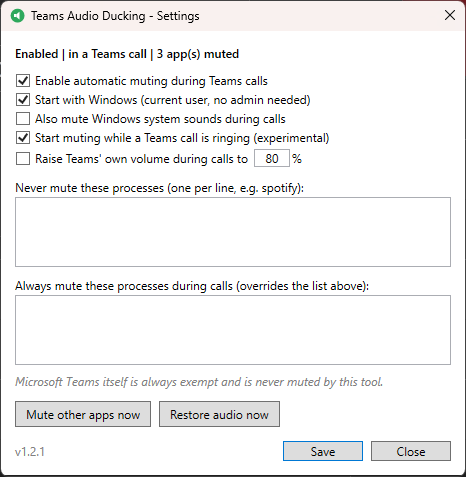
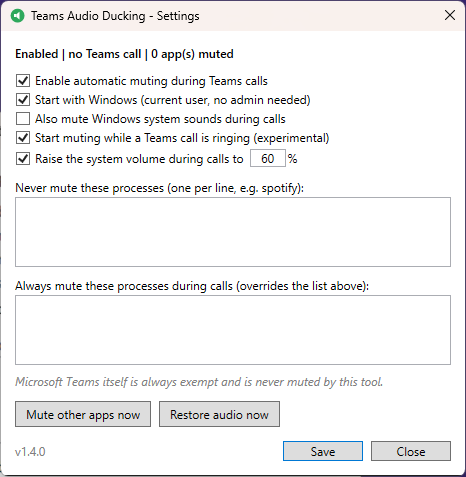
v1.4.1: fix the call volume never being raised (COM apartment mismatch)
1.4.0 looked right and did nothing on a real call. The log showed the reason on
every attempt:

    Could not raise the system volume on 'VG27A ...': Specified cast is not valid.

The MMDevice objects are created on the WPF UI thread, in OnStartup -> Start ->
RefreshDevicesLocked. DuckAll runs on the call detector's background thread, and
COM will not marshal an MMDevice across apartments: reaching the endpoint volume
through one fails with E_NOINTERFACE on IMMDevice itself. Per-app session volume
tolerates the crossing, which is why the muting worked and only the volume did
not.

Endpoint volume is now obtained through WithEndpointVolume, which resolves the
device by ID with a fresh enumerator on the calling thread and disposes both, so
nothing apartment-bound is ever reused. This also removes the tracked/untracked
device branch in the restore path.

Verified with the harness driving the real ducker under the app's threading
model (started on an STA thread, ducked from a background thread): it reproduces
the failure before the change, and after it the device goes 26% -> 60% -> 26%
with other devices untouched. Same result ducking on the STA thread (the Mute
now button), and adjusting the volume mid-call still leaves the level alone.

The settings screenshot is refreshed for the 1.4.0 wording.

diff --git a/src/TeamsAudioDucking/Core/AudioDucker.cs b/src/TeamsAudioDucking/Core/AudioDucker.cs
@@ -308,6 +308,23 @@ public sealed class AudioDucker : IDisposable
     /// Teams has no session at all there is no call audio to make louder yet,
     /// so the decision waits for one to appear).
     /// </summary>
+    /// <summary>
+    /// Runs <paramref name="work"/> against one device's system (endpoint) volume.
+    ///
+    /// The device is resolved fresh on the calling thread every time, deliberately.
+    /// The tracked MMDevice objects are created on the UI thread at startup, and
+    /// COM will not marshal them into the call detector's background thread:
+    /// activating the endpoint volume through one fails with E_NOINTERFACE. The
+    /// per-app session volume tolerates the crossing, endpoint volume does not.
+    /// This runs about twice per call, so the extra activation costs nothing.
+    /// </summary>
+    private static T WithEndpointVolume<T>(string deviceId, Func<AudioEndpointVolume, T> work)
+    {
+        using var enumerator = new MMDeviceEnumerator();
+        using var device = enumerator.GetDevice(deviceId);
+        return work(device.AudioEndpointVolume);
+    }
+
     private bool RaiseCallVolumeLocked(bool logSkip = false, bool force = false)
     {
         if (!_settings.BoostCallVolume) return false;
@@ -324,18 +341,23 @@ public sealed class AudioDucker : IDisposable
             if (existing != null && !force) continue;
             try
             {
-                var endpoint = holder.Device.AudioEndpointVolume;
-                float current = endpoint.MasterVolumeLevelScalar;
-                if (current >= target)
+                // An applied level of -1 means the device was already loud enough.
+                var (current, applied) = WithEndpointVolume<(float Current, float Applied)>(holder.Id, endpoint =>
+                {
+                    float level = endpoint.MasterVolumeLevelScalar;
+                    if (level >= target) return (level, -1f);
+                    endpoint.MasterVolumeLevelScalar = target;
+                    // Read back: Windows quantises the level to the device's own steps.
+                    return (level, endpoint.MasterVolumeLevelScalar);
+                });
+
+                if (applied < 0)
                 {
                     if (logSkip)
                         Logger.Info($"System volume left alone on '{holder.Name}': already at {(int)Math.Round(current * 100)}% (call level {(int)Math.Round(target * 100)}%; only ever raised)");
                     continue;
                 }
 
-                endpoint.MasterVolumeLevelScalar = target;
-                // Read back: Windows quantises the level to the device's own steps.
-                float applied = endpoint.MasterVolumeLevelScalar;
                 if (existing != null)
                 {
                     // Level raised in Settings mid-call: keep the original
@@ -435,43 +457,26 @@ public sealed class AudioDucker : IDisposable
 
         foreach (var record in _masterVolumes)
         {
-            MMDevice? device = null;
-            bool owned = false;
             try
             {
-                if (_devices.TryGetValue(record.DeviceId, out var holder))
+                // Non-null return means the level was changed by hand mid-call.
+                float? userLevel = WithEndpointVolume<float?>(record.DeviceId, endpoint =>
                 {
-                    device = holder.Device;
-                }
+                    float level = endpoint.MasterVolumeLevelScalar;
+                    if (Math.Abs(level - record.AppliedLevel) > Tolerance) return level;
+                    endpoint.MasterVolumeLevelScalar = record.PreviousLevel;
+                    return null;
+                });
+
+                if (userLevel.HasValue)
+                    Logger.Info($"System volume on '{record.DeviceName}' was changed during the call ({(int)Math.Round(userLevel.Value * 100)}%); leaving it alone");
                 else
-                {
-                    device = _enumerator?.GetDevice(record.DeviceId);
-                    owned = true; // not tracked: this wrapper is ours to dispose
-                }
-                if (device == null)
-                {
-                    Logger.Warn($"Output device '{record.DeviceName}' is gone; its system volume was left as it is");
-                    continue;
-                }
-
-                var endpoint = device.AudioEndpointVolume;
-                float current = endpoint.MasterVolumeLevelScalar;
-                if (Math.Abs(current - record.AppliedLevel) > Tolerance)
-                {
-                    Logger.Info($"System volume on '{record.DeviceName}' was changed during the call ({(int)Math.Round(current * 100)}%); leaving it alone");
-                    continue;
-                }
-
-                endpoint.MasterVolumeLevelScalar = record.PreviousLevel;
-                Logger.Info($"Restored system volume on '{record.DeviceName}' to {(int)Math.Round(record.PreviousLevel * 100)}%");
+                    Logger.Info($"Restored system volume on '{record.DeviceName}' to {(int)Math.Round(record.PreviousLevel * 100)}%");
             }
             catch (Exception ex)
             {
+                // Includes the device having been unplugged since the call started.
                 Logger.Warn($"Could not restore the system volume on '{record.DeviceName}': {ex.Message}");
-            }
-            finally
-            {
-                if (owned) { try { device?.Dispose(); } catch { } }
             }
         }
         _masterVolumes = new List<MasterVolumeRecord>();

diff --git a/README.md b/README.md
@@ -176,6 +176,12 @@ liable if it misbehaves.
 
 ## Changelog
 
+- **1.4.1**: fixes the call-volume option never actually working in the app
+  (the log showed "Could not raise the system volume: Specified cast is not
+  valid"). The audio device objects are created on the UI thread at startup,
+  and Windows will not let the system volume be reached through them from the
+  call detector's background thread, so the device is now looked up on
+  whichever thread is handling the call.
 - **1.4.0**: the call-volume option now raises the **system volume** of the
   device Teams plays through, instead of Teams' own app volume (app volume is
   usually already at 100%, so the old behaviour did nothing on most machines).
